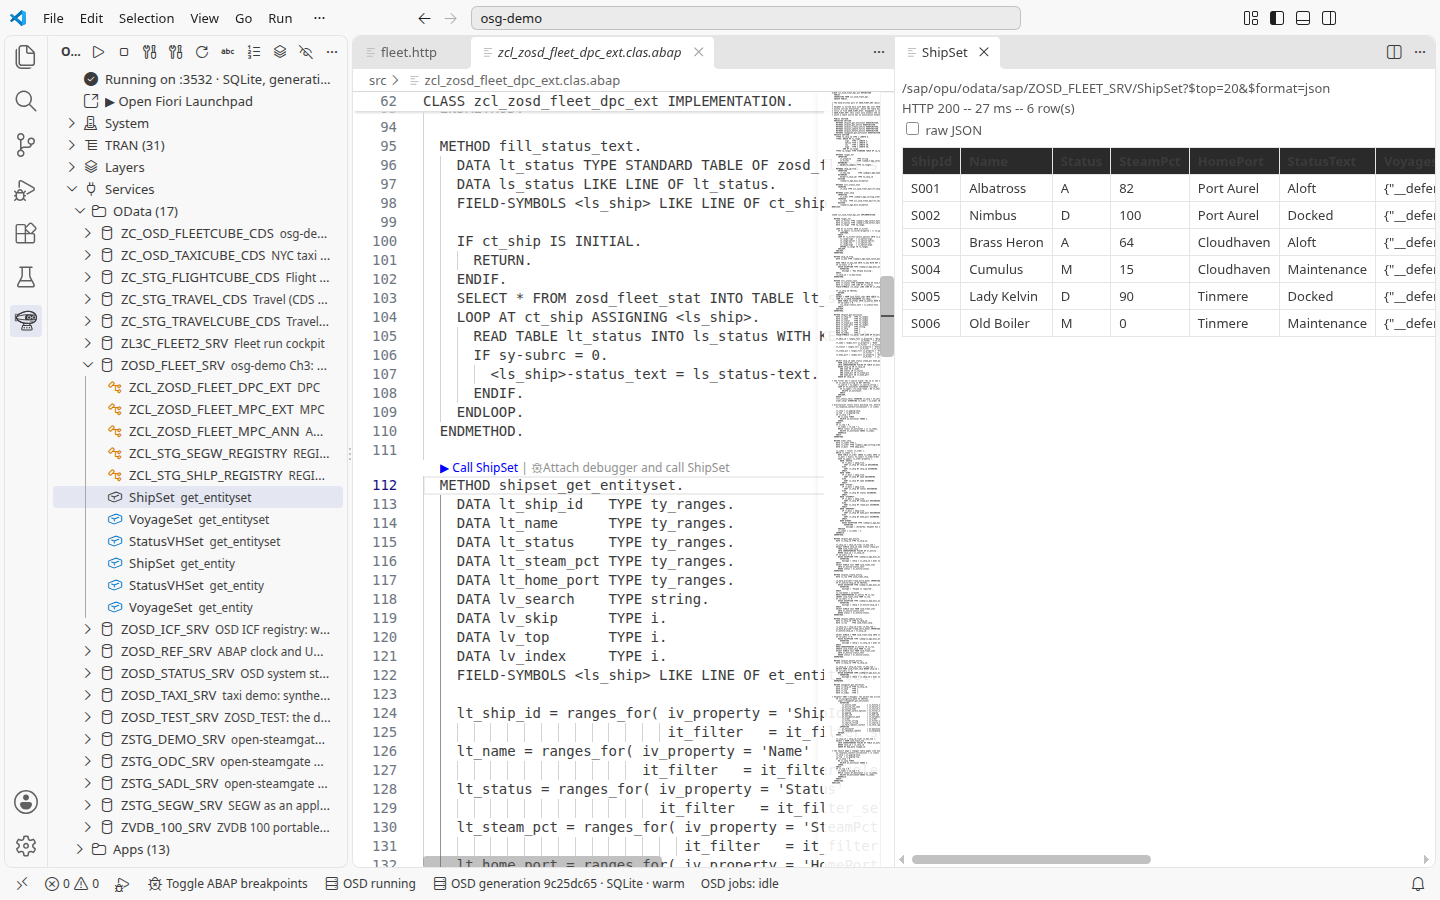
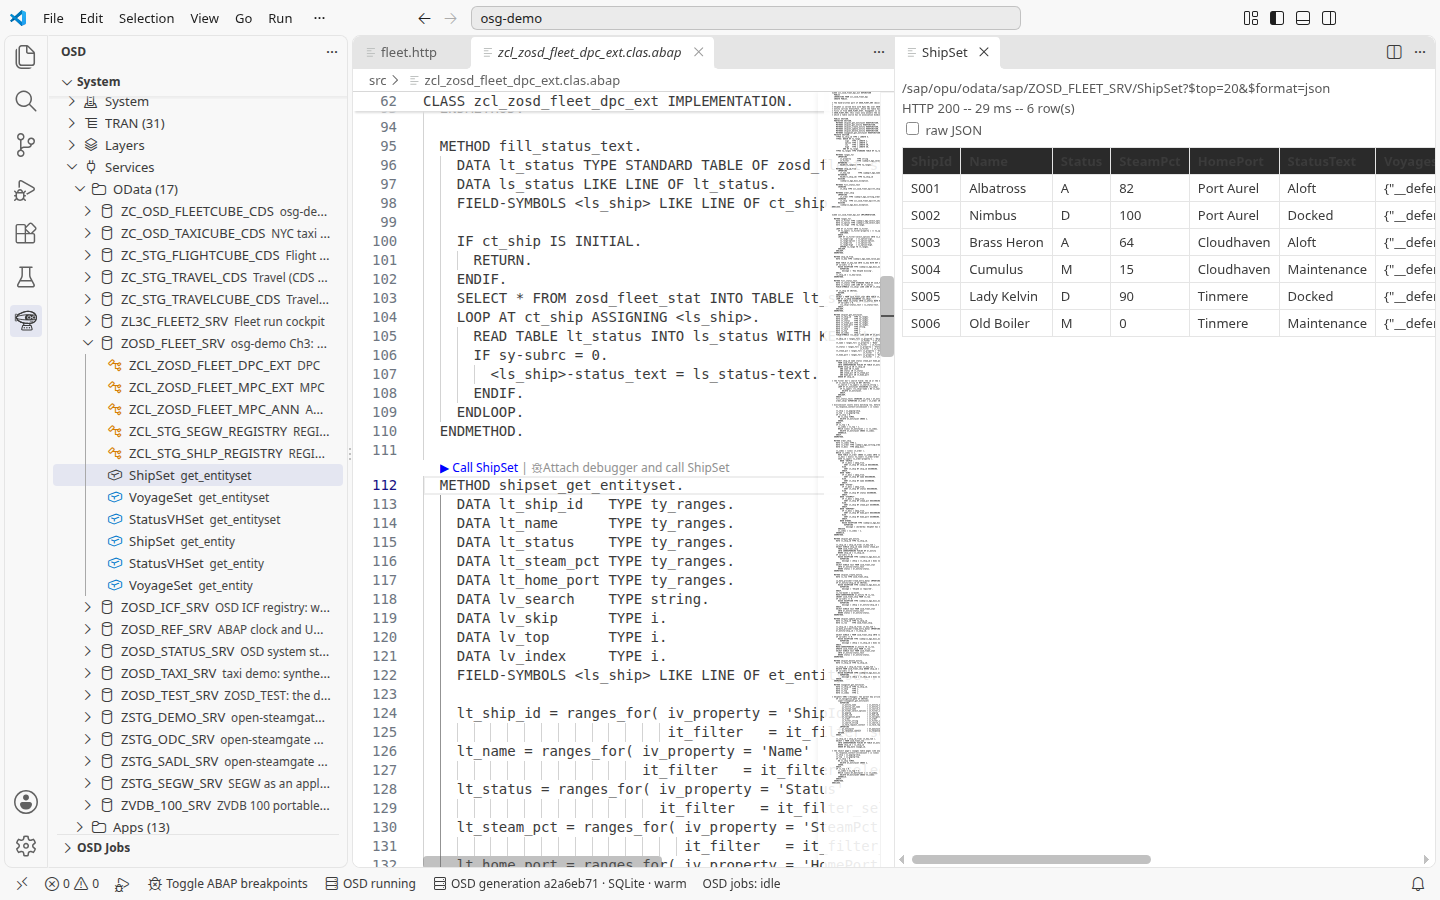
Retake workbench pictures for VS Code 0.7.1688

Changed region(s): [[0.0312, 0.0311, 0.2188, 0.9644], [0.3125, 0.9644, 0.5312, 0.9956], [0.3125, 0.0622, 0.4062, 0.0933]]

diff --git a/book/ru/09-background-jobs.md b/book/ru/09-background-jobs.md
@@ -15,7 +15,7 @@
 по умолчанию, `osd.database.system=sqlite`. Настройка `osd.jobs.worker=auto`
 действует по умолчанию; `off` его выключает. Строка состояния **OSD jobs**
 показывает состояние обработчика. Щелчок открывает представление **OSD Jobs**.
-Для сводки в канале вывода выполните **OSD: What is running?** и выберите
+Для сводки в канале вывода щелкните **OSD running**, чтобы открыть **OSD: What is running?**, и выберите
 **Job worker**: откроется читаемая сводка, по строке на задание,
 сначала новые, с состоянием, временем начала, длительностью и счетчиками
 шагов/вывода; при сбое указана причина. Сводка выводится в

diff --git a/book/ru/00-preface.md b/book/ru/00-preface.md
@@ -23,8 +23,8 @@ ABAP-системе, которая работает внутри VS Code: open-
 ## Об этом издании
 
 Книга написана для расширения VS Code open-steamgate **0.7.1688 или новее**;
-это издание книги v0.6. Снимки рабочей среды пока показывают предыдущий
-релиз 0.6; новые снимки ждут проверки VSIX стабильного релиза.
+это издание книги v0.6. Снимки рабочей среды пересняты с проверенным
+VSIX релиза `vscode-stable-v0.7.1688`.
 
 Где глава работает в checkout open-steamgate (главы
 7 и 14, командные строки в других главах, проверки приложения A), берите тег

diff --git a/book/09-background-jobs.md b/book/09-background-jobs.md
@@ -14,7 +14,7 @@ other backends refuse to schedule jobs.
 With the extension, **osd: Start** also starts the worker on the default
 `osd.database.system=sqlite` file database. `osd.jobs.worker=auto` is the
 default; `off` disables it. The **OSD jobs** status bar shows the worker's
-state. Click it to open the **OSD Jobs** view. For the output summary, run
+state. Click it to open the **OSD Jobs** view. For the output summary, click **OSD running** to open
 **OSD: What is running?** and choose **Job worker** to see
 a readable summary: one line per job, newest first, with state, start time,
 duration and step/output counts; failed runs include a reason. The summary is in the

diff --git a/book/16-orchestration.md b/book/16-orchestration.md
@@ -135,7 +135,7 @@ in a file. In VS Code, **osd: Start** uses file SQLite by default and
 supervises the worker (`osd.jobs.worker=auto`); the jobs run without a terminal.
 
 Click **OSD jobs** to open the **OSD Jobs** view. For the readable output
-summary, run **OSD: What is running?** and choose **Job worker**. Each pile job has its own line; **Show raw job log**
+summary, click **OSD running** to open **OSD: What is running?** and choose **Job worker**. Each pile job has its own line; **Show raw job log**
 switches the **OSD: Jobs** output to the worker JSON when needed.
 
 ![OSD jobs: a readable summary of completed night-set pile jobs](img/vscode-night-jobs.png)

diff --git a/book/00-preface.md b/book/00-preface.md
@@ -23,8 +23,8 @@ statuses.
 ## This edition
 
 The book is written for the open-steamgate VS Code extension **0.7.1688 or
-later** (book v0.6). Its workbench pictures still show the previous 0.6
-release; updated pictures are pending verification of the stable release VSIX.
+later** (book v0.6). Its workbench pictures were retaken with the verified
+VSIX from `vscode-stable-v0.7.1688`.
 
 Where a chapter works in an
 open-steamgate checkout (chapters 7 and 14, the command lines elsewhere, the
